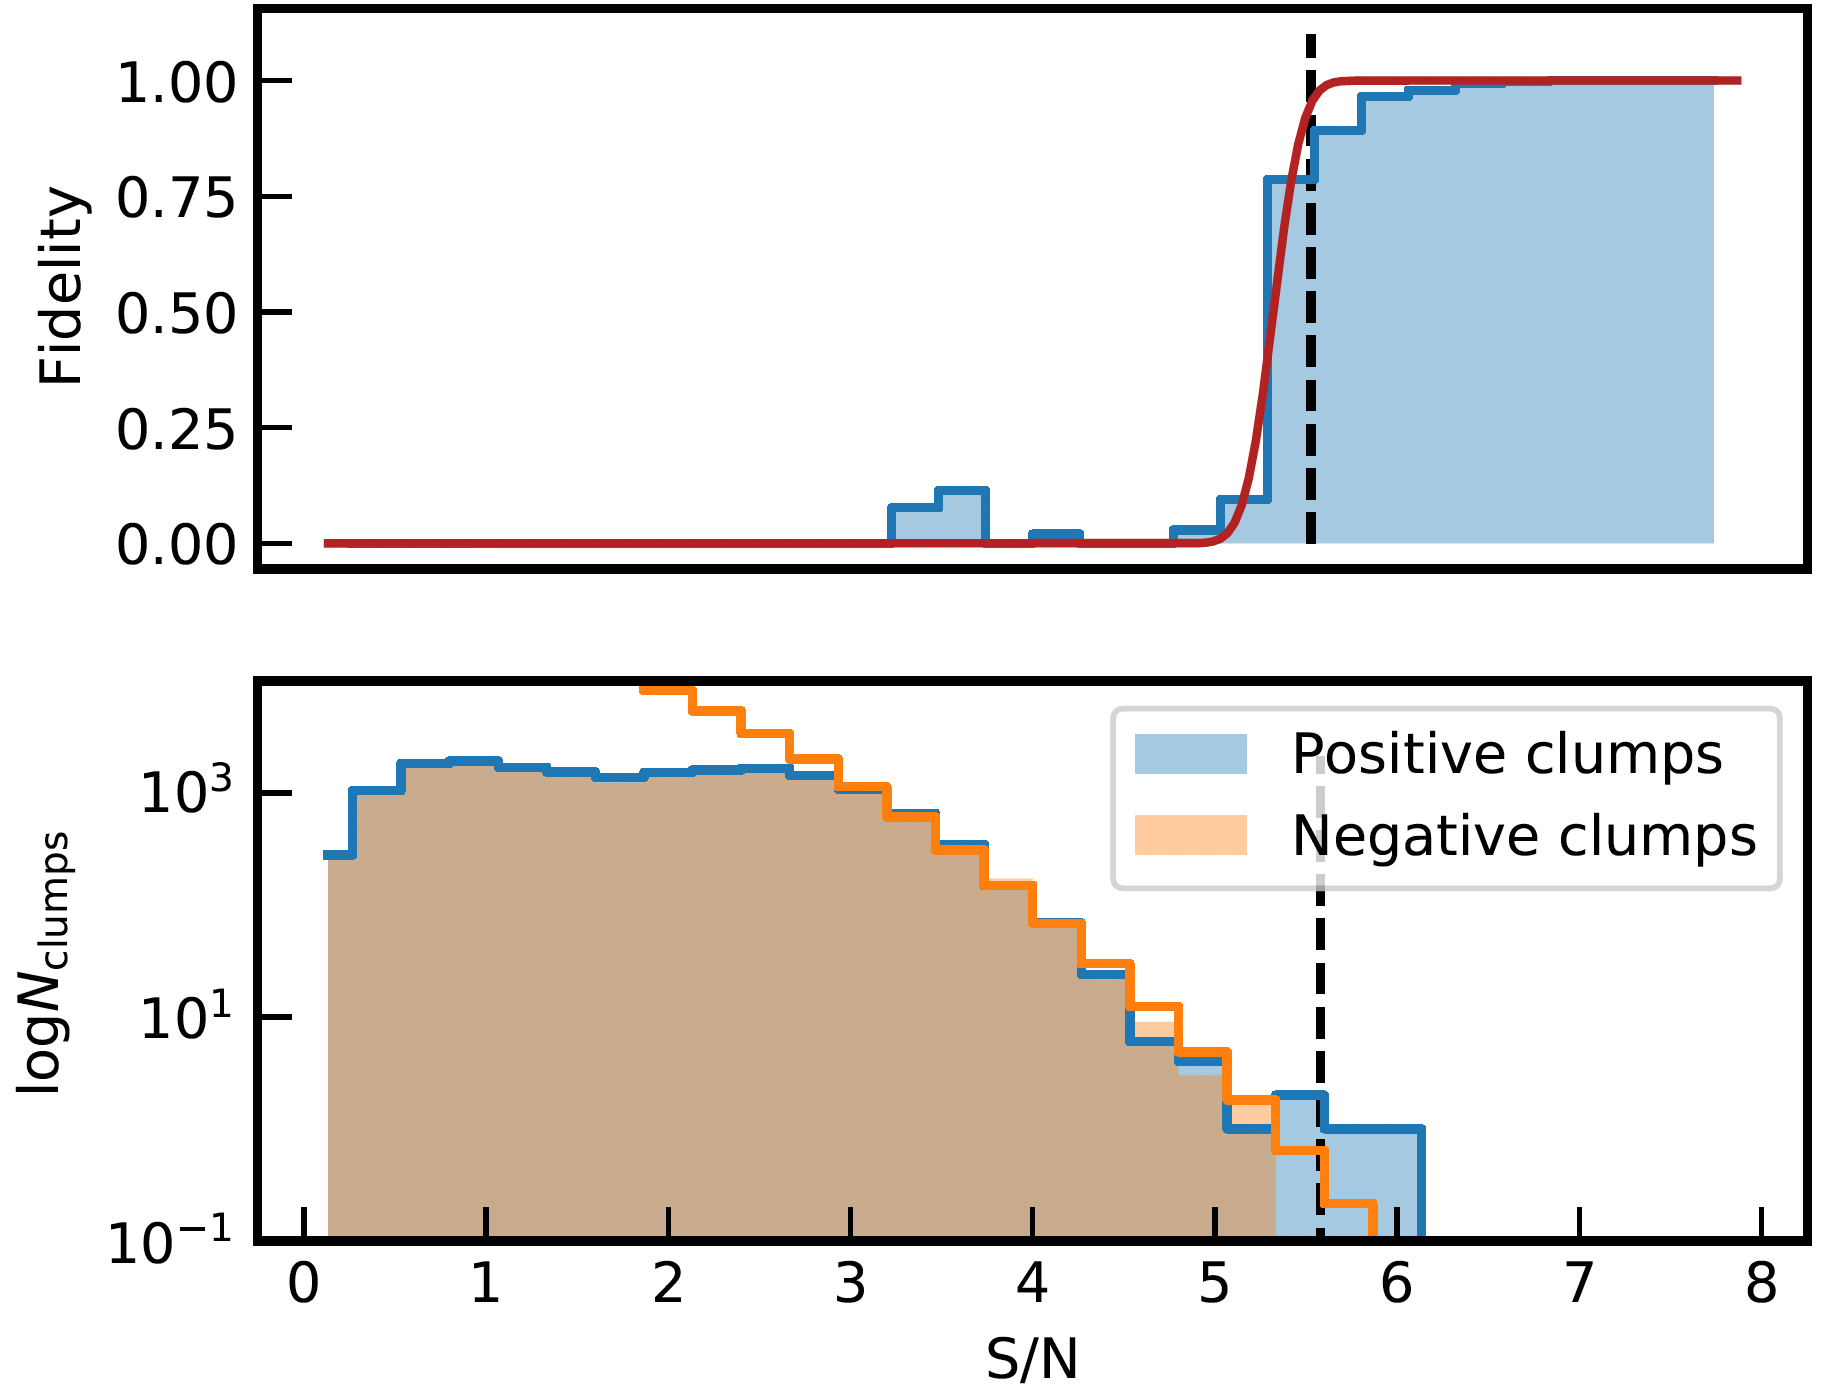
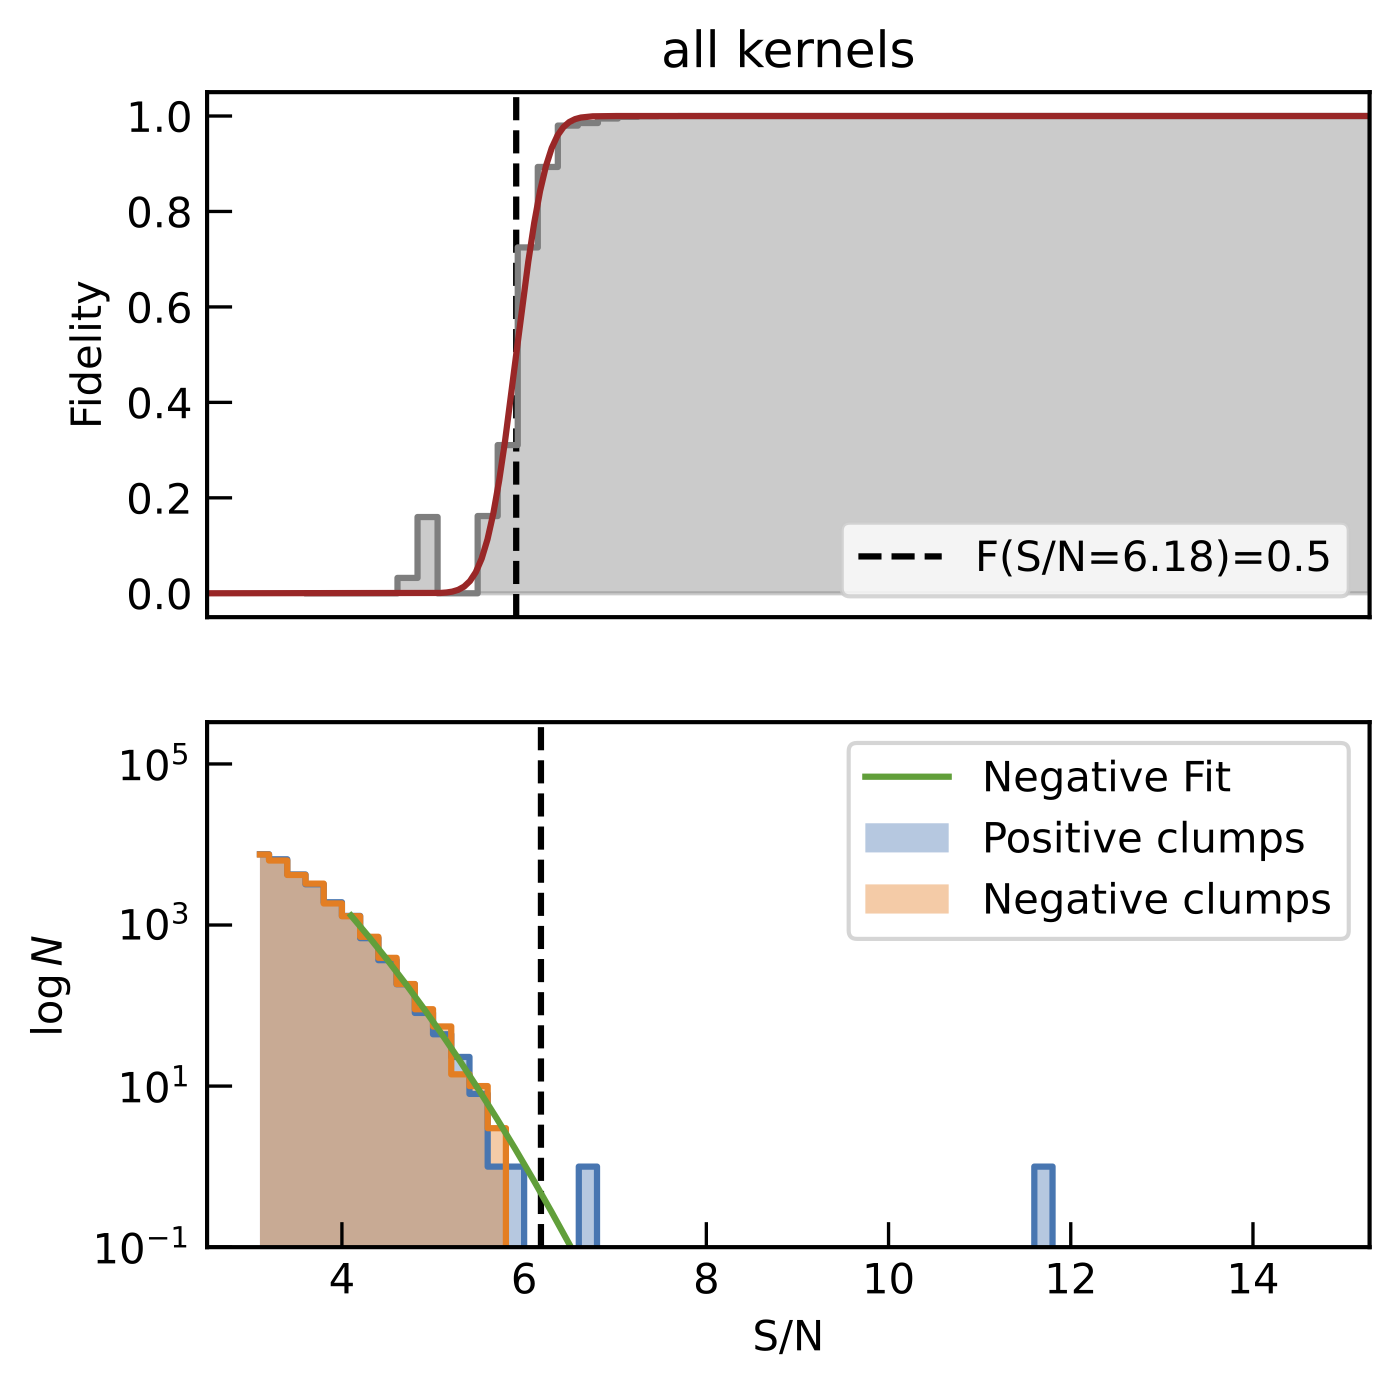
findclumps: add and cleanup inline documentation

diff --git a/interferopy/cube.py b/interferopy/cube.py
@@ -745,7 +745,6 @@ class Cube:
         :param output_file: relative/absolute path to the outpute catalogue
         :param rms_region: Region to compute the rms noise [2x2 array in image pixel coord].
             If ``None``, takes the central 25% pixels (square)
-        :param sn_threshold: Minimum SN of peaks to retain
         :param minwidth: Number of channels to bin
         :param clean_tmp: Whether to remove or not the temporary files created by Sextractor
         :return:
@@ -843,10 +842,11 @@ class Cube:
                         clean_tmp=True, ncores=1,
                         run_search=True, run_positive=True, run_negative=True,
                         run_crop=True,
-                        min_SNR=0, delta_offset_arcsec=2, delta_freq=0.1,
-                        run_fidelity=True, bins=np.arange(0, 15, 0.2),
+                        SNR_min=3, delta_offset_arcsec=2, delta_freq=0.1,
+                        run_fidelity=True,
+                        fidelity_bins=np.arange(0, 15, 0.2),
                         min_SN_fit=4.0, fidelity_threshold=0.5,
-                        verbose=False):
+                        verbose=True):
         '''Run the full findclumps search and analysis for different kernel
         sizes, on the positive and/or negative cube(s):
 
@@ -860,17 +860,27 @@ class Cube:
         kernels and/or modifying the cropping criteria).
 
         :param output_file: relative/absolute path to the outpute catalogue
+        :param kernels: list of odd kernel widths to use
         :param rms_region: Region to compute the rms noise [2x2 array in image pixel coord].
             If ``None``, takes the central 25% pixels (square)
-        :param sn_threshold: Minimum SN of peaks to retain
-        :param minwidth: Number of channels to bin / a.k.a boxcar kernel size
-        :min_SNR: min SNR for final catalogues
-        :delta_offset_arcsec: maximum offset to match detections in the cube [arcsec]
-        :delta_freq: maximum frequency offset to match detections in the cube [GHz]
-        :run_positive: run findclumps on the positive cube
-        :run_negative: run findclumps on the negative cube
-        :verbose: increase verbosity
+        :param sextractor_param_file: path to sextractor param file
+        :param clean_tmp: cleanup intermediate sextractor files (disable for debugging)
+        :param ncores: number of cores for multiprocessing (done over kernels and pos/neg search)
+        :param run_search: if `False` will skip the search step
+        :param run_positive: if `False` will skip the positive search
+        :param run_negative: if `False` will skip the negative search
 
+        :param run_crop: if `False` will skip the crop step
+        :param SNR_min: Minimum SN of peaks to retain in the crop
+        :param delta_offset_arcsec: maximum offset to match detections in the cube [arcsec]
+        :param delta_freq: maximum frequency offset to match detections in the cube [GHz]
+
+        :param run_fidelity: if `False` will skip the fidelity analysis
+        :param fidelity_bins: SN bins for the fidelity analysis
+        :param min_SN_fit: minimum SN for fidelity fit
+        :param fidelity_threshold: Fidelity threshold above which to select candidates
+
+        :param verbose: increase overall verbosity
         '''
         if run_search:
             if ncores == 1:
@@ -904,15 +914,19 @@ class Cube:
                     p.starmap(self.findclumps_1kernel, iterable)
                     p.close()
                     p.join()
-            print('Findclumps done, running line stats and cropping doubles...')
-
+            if verbose:
+                print('Findclumps done.')
+            
         if run_crop:
+            if verbose:
+                print('Running line stats and cropping doubles...')
+            
             # process positive catalog
             if run_positive:
                 tools.run_line_stats_sex(sextractor_catalogue_name=output_file + '_clumpsP',
-                                         binning_array=kernels, SNR_min=min_SNR)
+                                         binning_array=kernels, SNR_min=SNR_min)
 
-                tools.crop_doubles(cat_name=output_file + "_clumpsP_minSNR_" + str(min_SNR) + ".cat",
+                tools.crop_doubles(cat_name=output_file + "_clumpsP_minSNR_" + str(SNR_min) + ".cat",
                                    delta_offset_arcsec=delta_offset_arcsec,
                                    delta_freq=delta_freq,
                                    verbose=verbose)
@@ -920,9 +934,9 @@ class Cube:
             # process negative catalog
             if run_negative:
                 tools.run_line_stats_sex(sextractor_catalogue_name=output_file + '_clumpsN',
-                                         binning_array=kernels, SNR_min=min_SNR)
+                                         binning_array=kernels, SNR_min=SNR_min)
 
-                tools.crop_doubles(cat_name=output_file + "_clumpsN_minSNR_" + str(min_SNR) + ".cat",
+                tools.crop_doubles(cat_name=output_file + "_clumpsN_minSNR_" + str(SNR_min) + ".cat",
                                    delta_offset_arcsec=delta_offset_arcsec,
                                    delta_freq=delta_freq,
                                    verbose=verbose)
@@ -930,12 +944,12 @@ class Cube:
         # analyse fidelity
         if run_fidelity:
             catP, catN, candP, candN \
-                = tools.fidelity_analysis(catN_name=output_file + "_clumpsN_minSNR_" + str(min_SNR) + "_cropped.cat",
-                                          catP_name=output_file + "_clumpsP_minSNR_" + str(min_SNR) + "_cropped.cat",
-                                          bins=bins,
+                = tools.fidelity_analysis(catN_name=output_file + "_clumpsN_minSNR_" + str(SNR_min) + "_cropped.cat",
+                                          catP_name=output_file + "_clumpsP_minSNR_" + str(SNR_min) + "_cropped.cat",
+                                          bins=fidelity_bins,
                                           min_SN_fit=min_SN_fit,
                                           fidelity_threshold=fidelity_threshold,
-                                          kernels=kernels)
+                                          kernels=kernels, verbose=verbose)
 
             return catP, catN, candP, candN
 

diff --git a/interferopy/tools.py b/interferopy/tools.py
@@ -549,7 +549,7 @@ def line_stats_sextractor(catalogue, binning, SNR_min=5):
 
 def run_line_stats_sex(sextractor_catalogue_name,
                        binning_array=np.arange(1, 20, 2),
-                       SNR_min=5):
+                       SNR_min=3):
     '''
     Merges, cleans and reformat clump catalogues (positive or negative) of different kernel widths. Also makes a DS9
     region file for all clumps above a chosen threshold. Made to operate over all kernel half-widths for convenience.
@@ -684,18 +684,18 @@ def fidelity_function(sn, sigma, c):
 
 
 def fidelity_selection(cat_negative, cat_positive, bin_edges=np.arange(0, 20, 0.1),
-                       i_SN=5, fidelity_threshold=0.6, min_SN_fit=None, verbose=True):
+                       i_SN=5, fidelity_threshold=0.6, min_SN_fit=4.0, verbose=True):
     '''
     Fidelity selection following Walter et al. 2016 (https://ui.adsabs.harvard.edu/abs/2016ApJ...833...67W/abstract) to
     select clumps which are more likely to be positive than negative. Plot the selection and threshold if required.
 
     :param cat_negative: Catalogue of negative clump detections
     :param cat_positive: Catalogue of positive clump detections
+    :param bin_edges: SN bins for the fidelity analysis
     :param i_SN: index of the SNR in the catalogues (if catalogues were produced by the internal interferopy findclumps function i_SN =5)
-    :param max_SN: estimated maximum SN of clumps found in the cube
     :param plot_name: if different than "" plot the fidelity function and threshold and save to given name
-    :fidelity_threshold: Fidelity threshold above which to select candidates
-    :return: Interpolated SN corresponding to the fidlity threshold chosen
+    :param min_SN_fit: minimum SN for fidelity fit
+    :param fidelity_threshold: Fidelity threshold above which to select candidates
     '''
     if verbose:
         if np.max(np.concatenate([cat_positive[:, int(i_SN)], cat_negative[:, int(i_SN)]])) > bin_edges[-1]:
@@ -735,7 +735,7 @@ def fidelity_selection(cat_negative, cat_positive, bin_edges=np.arange(0, 20, 0.
 
 def fidelity_plot(cat_negative, cat_positive, bin_edges=np.arange(0, 20, 0.1),
                   i_SN=5, fidelity_threshold=0.6, plot_name='', title_plot=None,
-                  min_SN_fit=None, verbose=True):
+                  min_SN_fit=4.0, verbose=True):
 
     bins, hist_N, hist_P, fidelity, popt, pcorr, sn_thres, bins_fitted, hist_N_fitted \
         = fidelity_selection(cat_negative, cat_positive,
@@ -794,6 +794,20 @@ def fidelity_analysis(catN_name, catP_name,
                       fidelity_threshold=0.5,
                       kernels=np.arange(3, 20, 2),
                       verbose=True):
+    """Perform and plot the fidelity analysis on a positive and negative catalog
+
+    :param catN_name: name of the cropped catalog of negative lines
+    :param catN_name: name of the cropped catalog of positive lines
+    :param bins: SN bins for the fidelity analysis
+    :param min_SN_fit: minimum SN for fidelity fit
+    :param fidelity_threshold: Fidelity threshold above which to select candidates
+    :param kernels: list of odd kernel widths to use
+
+    :return: full list of positive candidates with fidelity
+    :return: full list of negative candidates with fidelity
+    :return: list of positive candidates with fidelity above `fidelity_threshold`
+    :return: list of negative candidates with fidelity above `fidelity_threshold`
+    """
     if verbose:
         print("Analysing fidelity.")
     # read in the input catalogs - these should already be cropped

diff --git a/docs/pages/findclumps.rst b/docs/pages/findclumps.rst
@@ -1,33 +1,54 @@
 Finding line emitters with Findclumps
 =====================================
 
-Interferopy includes an implementation of the Findclumps algorithm used by `Walter+2016 <https://ui.adsabs.harvard.edu/abs/2016ApJ...833...67W/abstract>`_ to find line emitters in ASPECS.
-At its core, Findclumps simply convolves the cube with boxcar kernels of various sizes, and run sextractor on the created image to find "clumps". It does so on the original and inverted cubes, enabling the user to estimate which detections are real or not. It groups "clumps" by frequency and spatial distance, at the discretion of the user.
+Interferopy includes an implementation of the Findclumps algorithm
+used by `Walter et al. 2016 (ApJ, 833, 67W)
+<https://ui.adsabs.harvard.edu/abs/2016ApJ...833...67W/abstract>`_  to
+find line emitters in ASPECS.  At its core, Findclumps simply
+convolves the cube with boxcar kernels of various sizes, and run
+sextractor on the created image to find "clumps". It does so on the
+original and inverted cubes, enabling the user to estimate which
+detections are real or not. It groups "clumps" by frequency and
+spatial distance, at the discretion of the user.  After a list of
+positive and negative candidates has been constructed, the fidelity is
+determined in SN space for each kernel and for all kernels combined.
 
-To run FindClcumps, you will need to have sextractor installed (which can be done via an astroconda environment : https://astroconda.readthedocs.io/en/latest/package_manifest.html), and have a local "default.sex" file in the folder where you run the interferopy-findclumps script. You can either copy your generic default.sex that comes as  part of sextractor of modify it to optimise the search for "clumps" in the cube.
+To run FindClcumps, you will need to have sextractor installed (which
+can be done via an astroconda environment :
+https://astroconda.readthedocs.io/en/latest/package_manifest.html),
+and have a local "default.sex" file in the folder where you run the
+interferopy-findclumps script. You can either copy your generic
+default.sex that comes as part of sextractor of modify it to optimise
+the search for "clumps" in the cube.
 
 Example usage:
 
 .. code-block:: python
 
+    import numpy as np
     from interferopy.cube import Cube
     cube = Cube('absolute_path/filename')
-    cube.findclumps_full(output_file='findclumps_', kernels=np.arange(3, 20, 2), rms_region=1. / 4.,
-                        sextractor_param_file='default.sex', clean_tmp=True, min_SNR=5,
-                        delta_offset_arcsec=2, delta_freq=0.1, ncores=1,
-                        run_positive=True, run_negative=True,
-                        verbose=False)
+    catP, catN, candP, candN = cube.findclumps_full(output_file='findclumps_',
+                                                    kernels=np.arange(3, 20, 2),
+                                                    run_search=True,
+                                                    run_crop=True,
+                                                    SNR_min=3,
+                                                    delta_offset_arcsec=2,
+                                                    delta_freq=0.1,
+                                                    run_fidelity=True,
+                                                    fidelity_bins=np.arange(0, 15, 0.2),
+                                                    min_SN_fit=4.0, fidelity_threshold=0.5,
+                                                    verbose=True)
 
-    cat_Neg = np.loadtxt("findlucmps_clumpsN_minSNR_5.cat")
-    cat_Pos = np.loadtxt("findlucmps_clumpsN_minSNR_5.cat")
 
-    sn_threshold = iftools.fidelity_selection(cat_negative=cat_Neg, cat_positive=cat_Pos, i_SN=5,
-                        fidelity_threshold=0.6,plot_name='./clumps/fidelity_selection_FINDCLUMPS.pdf')
-
-    candidates = cat_Pos[np.where(cat_Pos[:,5]>sn_threshold)[0]] # selecting candidates for future use
-    np.savetxt('saved_high_fidelity_candidates',candidates)
-
-See :any:`interferopy.cube.Cube.findclumps_full`, :any:`interferopy.cube.Cube.findclumps_1kernel`, :any:`interferopy.tools.fidelity_selection` for more details.
+This will run the search for kernels of 3 up to 19 channels, crop the
+sources at S/N > 3 that fall within 2 arcseconds and 0.1 GHz (starting
+from the highest S/N sources), do the fidelity analysis on the S/N > 4
+candidates in delta S/N of 0.2 bins, returning the full positive and
+negative catalogs and those only keeping sources above a fidelity
+threshold of 0.5 (per kernel width).  For more information, see the
+documentation of :any:`interferopy.cube.Cube.findclumps_full` and the
+individual functions for more details.
 
 The resulting fidelity selection plot should look like this:
 
